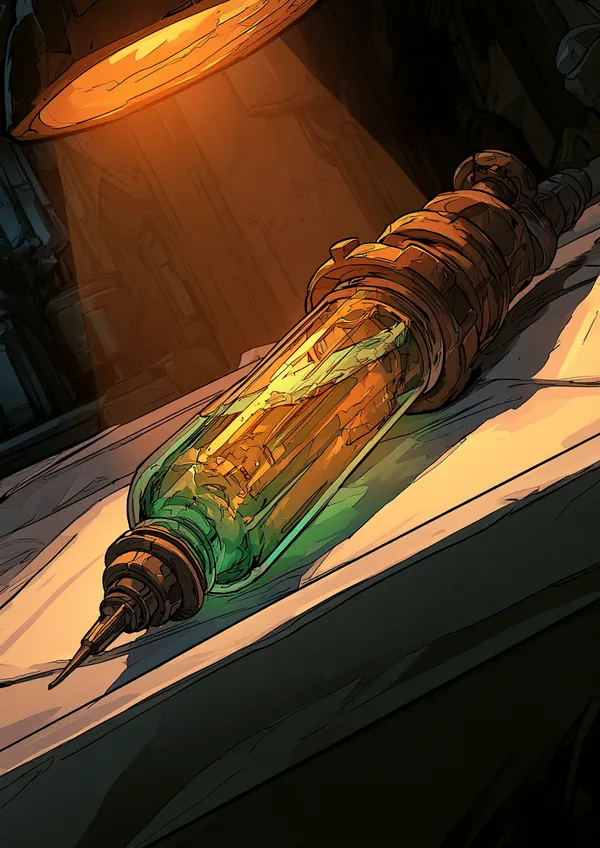
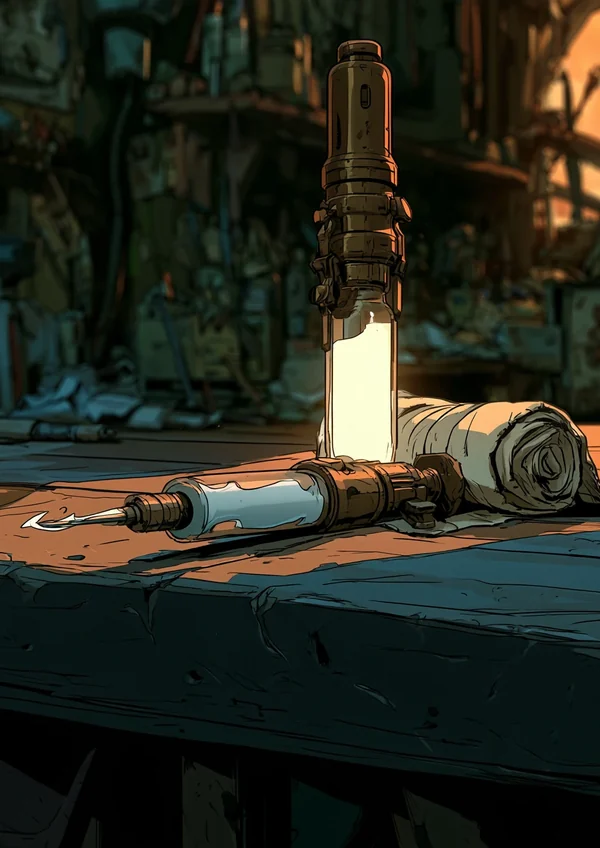
Cartes Stimulant et Repli : nouvelles illustrations, toutes les cartes sont refaites
Claude-Session: https://claude.ai/code/session_01KtExxXb97BFCLM4DYeZjq1

diff --git a/src/ui/art.ts b/src/ui/art.ts
@@ -10,7 +10,7 @@ const base = new URL('art/', document.baseURI).href;
 /** à changer quand les portraits sont repeints sous le même nom : le navigateur recharge alors les nouveaux au lieu de garder les anciens en cache */
 const VERSION_PORTRAITS = 2;
 /** idem pour les illustrations des cartes */
-const VERSION_CARTES = 12;
+const VERSION_CARTES = 13;
 const PORTEURS_ILLUSTRES = new Set(['ilka', 'doran', 'vela', 'sasha', 'nuit', 'aurel', 'coursier', 'docker', 'guetteur', 'kessa', 'liane', 'joss']);
 
 /** Modules illustrés : id du Module dans donnees.ts → fichier */
